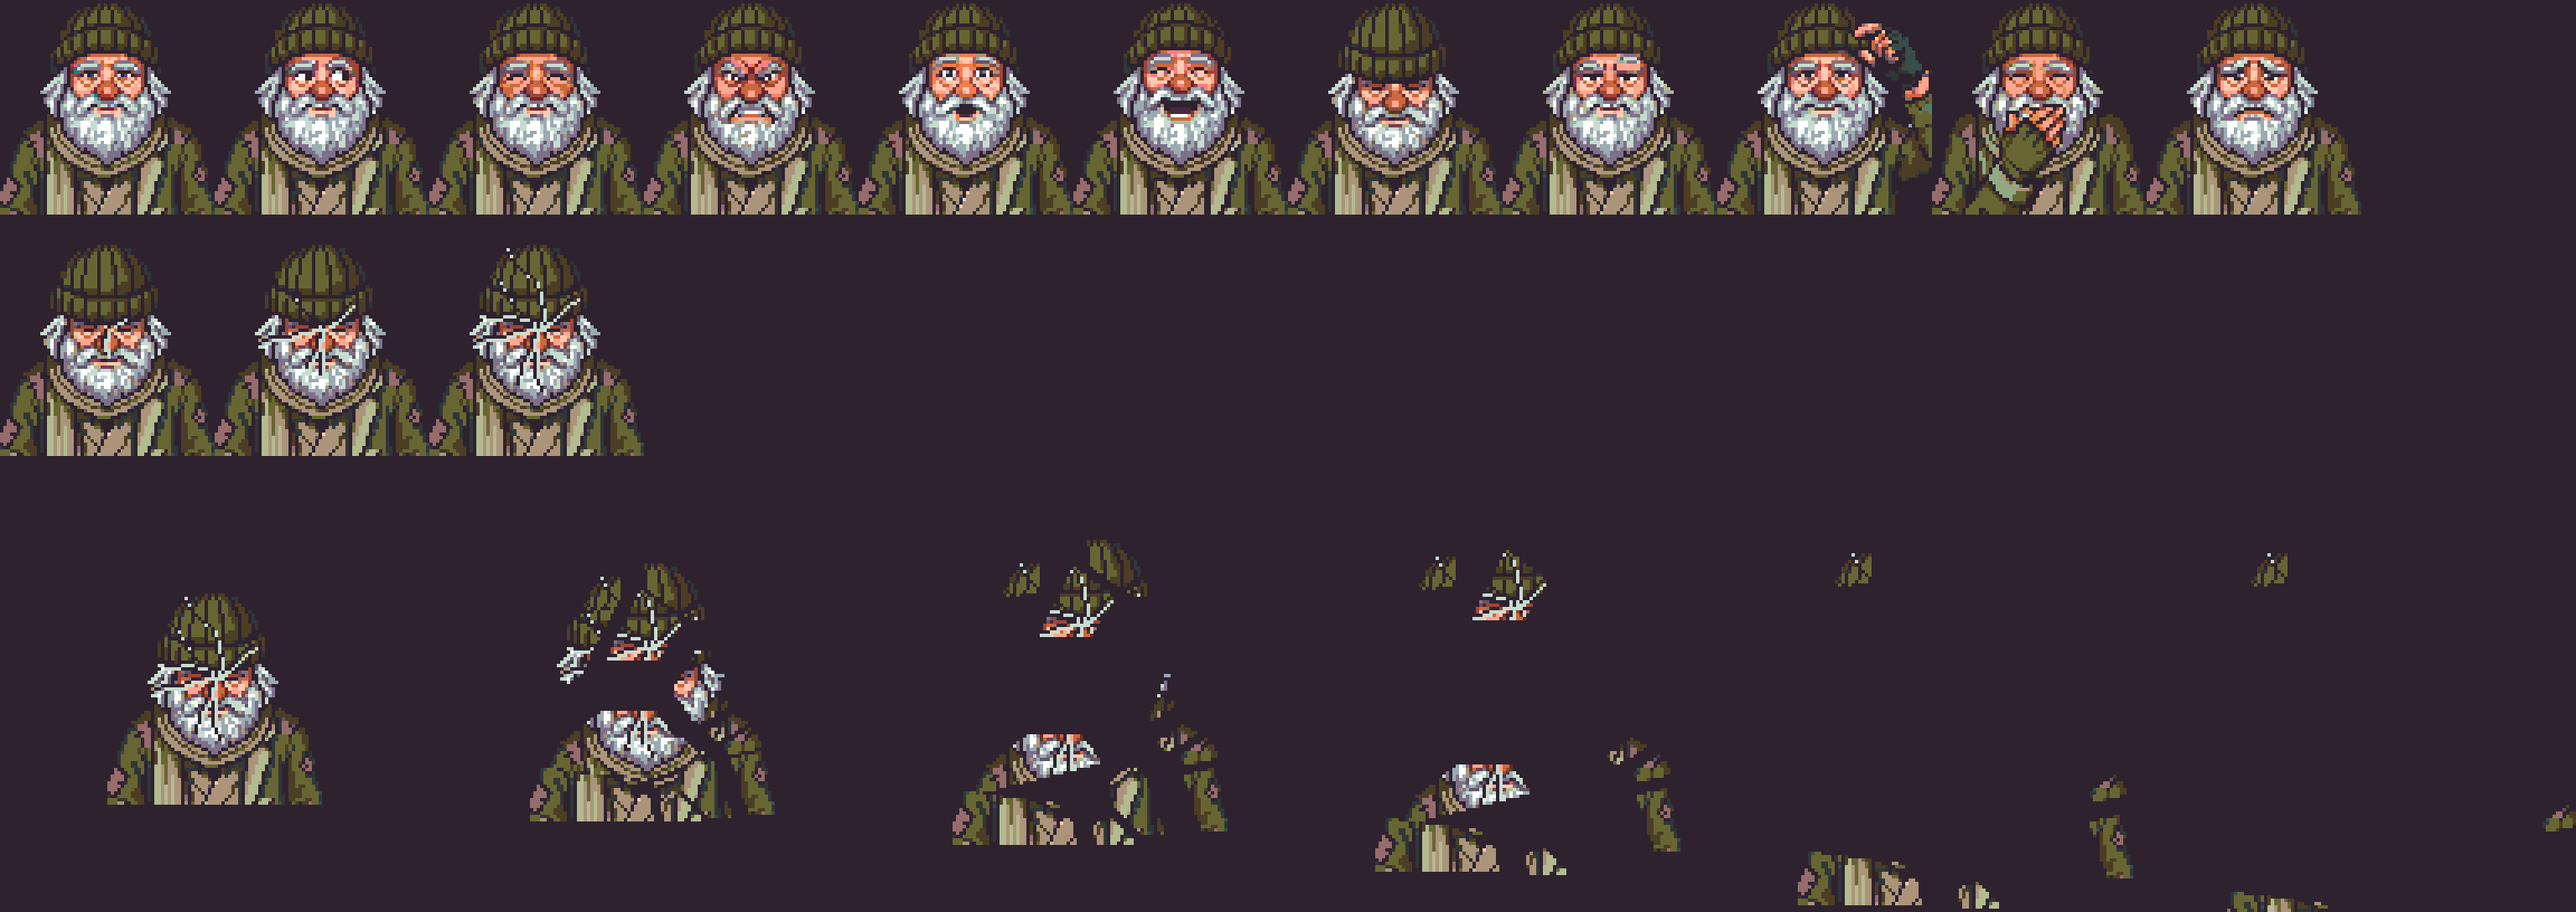
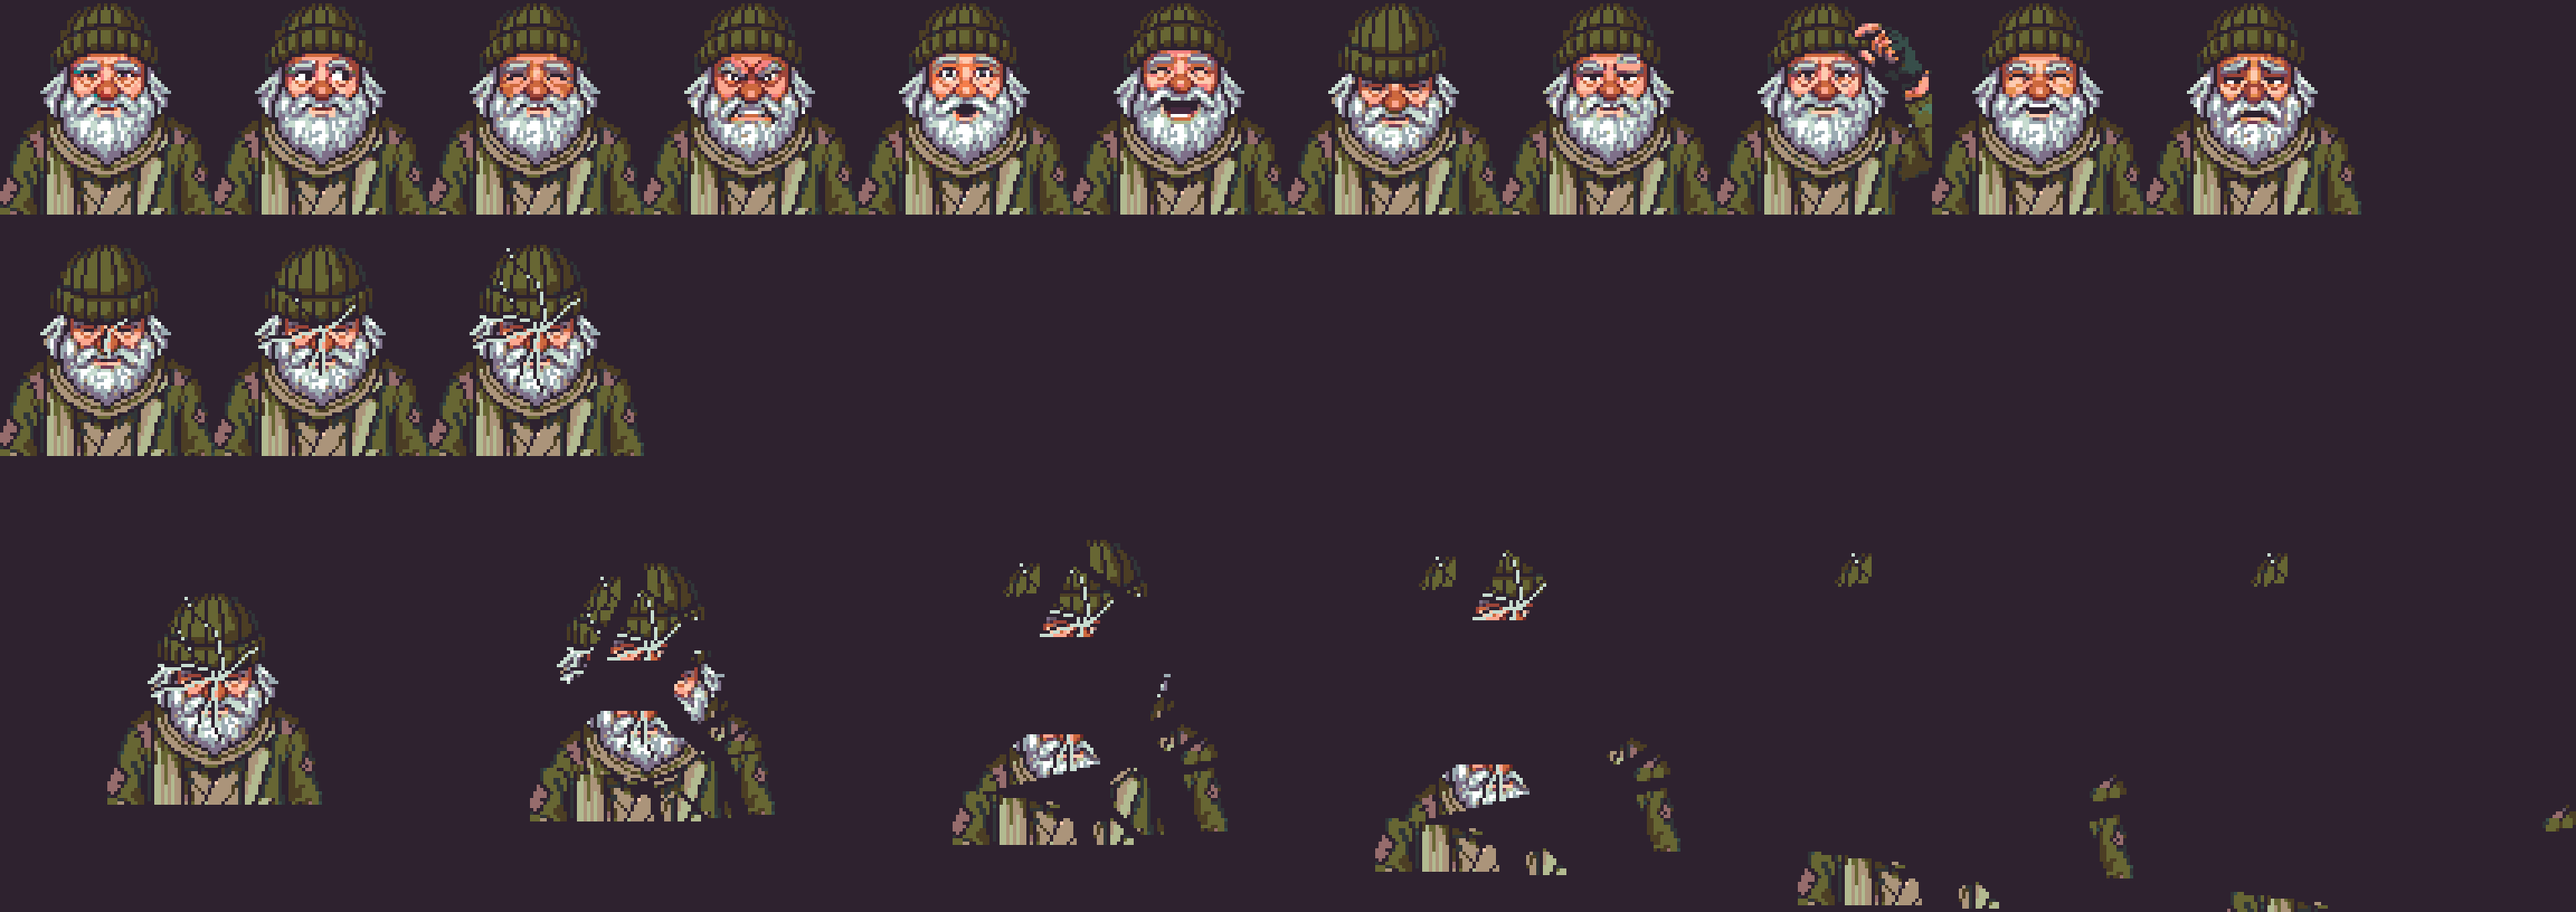
M6c playtest 18: Sean's picks, giggle A and sad B

Changed region(s): [[0.75, 0.0625, 0.9062, 0.25]]

diff --git a/art/strange_man/make_strange_man.py b/art/strange_man/make_strange_man.py
@@ -68,8 +68,8 @@ EXPRESSIONS = {  # asset name -> bust/raw_<source>.png
     "greeting": "greeting_c",
     # M6c playtest (Sean 2026-11-23): giggle when he blocks your two, sad (disappointed)
     # when you block his three; edit_image of idle, options bust/raw_giggle|sad_a|b|c.png
-    # (compare_giggle.png, compare_sad.png); Claude's picks, pending Sean.
-    "giggle": "giggle_b", "sad": "sad_a",
+    # (compare_giggle.png, compare_sad.png); Sean picked giggle A, sad B.
+    "giggle": "giggle_a", "sad": "sad_b",
 }
 GOOB_X = {"blue": 72, "red": 198}  # centre x in game px, either side of him on the pool
 CRACK_DARK, CRACK_LIT = hexc("2e222f"), hexc("c7dcd0")

diff --git a/docs/CLAUDE_CODE_HANDOFF.md b/docs/CLAUDE_CODE_HANDOFF.md
@@ -81,7 +81,7 @@ After v0.1: **Art pass E** (per-type pixel impact VFX replacing the M5 placehold
 - **Playtest 15 (Sean):** player drop at 0.2 s accepted. Opponent: back to the full flip up from behind (rise 0.22 + settle 0.1), **then** the 0.2 s rest (`TOP_PAUSE_SEC` for every played Goob; `OPPONENT_PLAY_SEC` removed).
 - **Playtest 16 (Sean): snappier scoring.** Recognition 1.0 → 0.7 s; per Goob ~0.85 → ~0.55 s (flip frames 0.06 → 0.04 `SCORE_FLIP_FRAME_SEC`, show 0.25 → 0.15, float 0.3 → 0.2, step 0.6 → 0.4); pause 0.4 → 0.25; collapse 0.3 → 0.25; total hold 1.0 unchanged. A four now scores in ~4.4 s instead of ~6 (incl. the 1 s hold on the total).
 - **Playtest 17 (Sean):** scoring timing accepted. Bug fixed: Convincing's target showed the new colour during the wind-up (`play_flip` set `_token_owner` at the start, so the face player repainted it). The owner now changes when the spin starts; the colour turns edge-on mid-spin. Test `_test_convincing_flip_colour`.
-- **Playtest 18 (Sean):** Convincing fix OK. Reactions: you block his two → well played; he blocks yours → **giggle** (new `portrait_giggle`, option b); you block his three → **sad** (new `portrait_sad`, option a; was angry); angry only when your effect hits him. Options in `art/strange_man/compare_giggle.png` / `compare_sad.png` (Claude's picks, pending Sean).
+- **Playtest 18 (Sean):** Convincing fix OK. Reactions: you block his two → well played; he blocks yours → **giggle** (new `portrait_giggle`, option A (Sean)); you block his three → **sad** (new `portrait_sad`, option B (Sean); was angry); angry only when your effect hits him. Options in `art/strange_man/compare_giggle.png` / `compare_sad.png`.
 - **Sean confirmed fixed:** wrong Goob played after a timeout (double `_hand.remove()`, `53e484f`).
 - **Playtest changes so far:**
   - Drawn Goob's name shows above the board.
